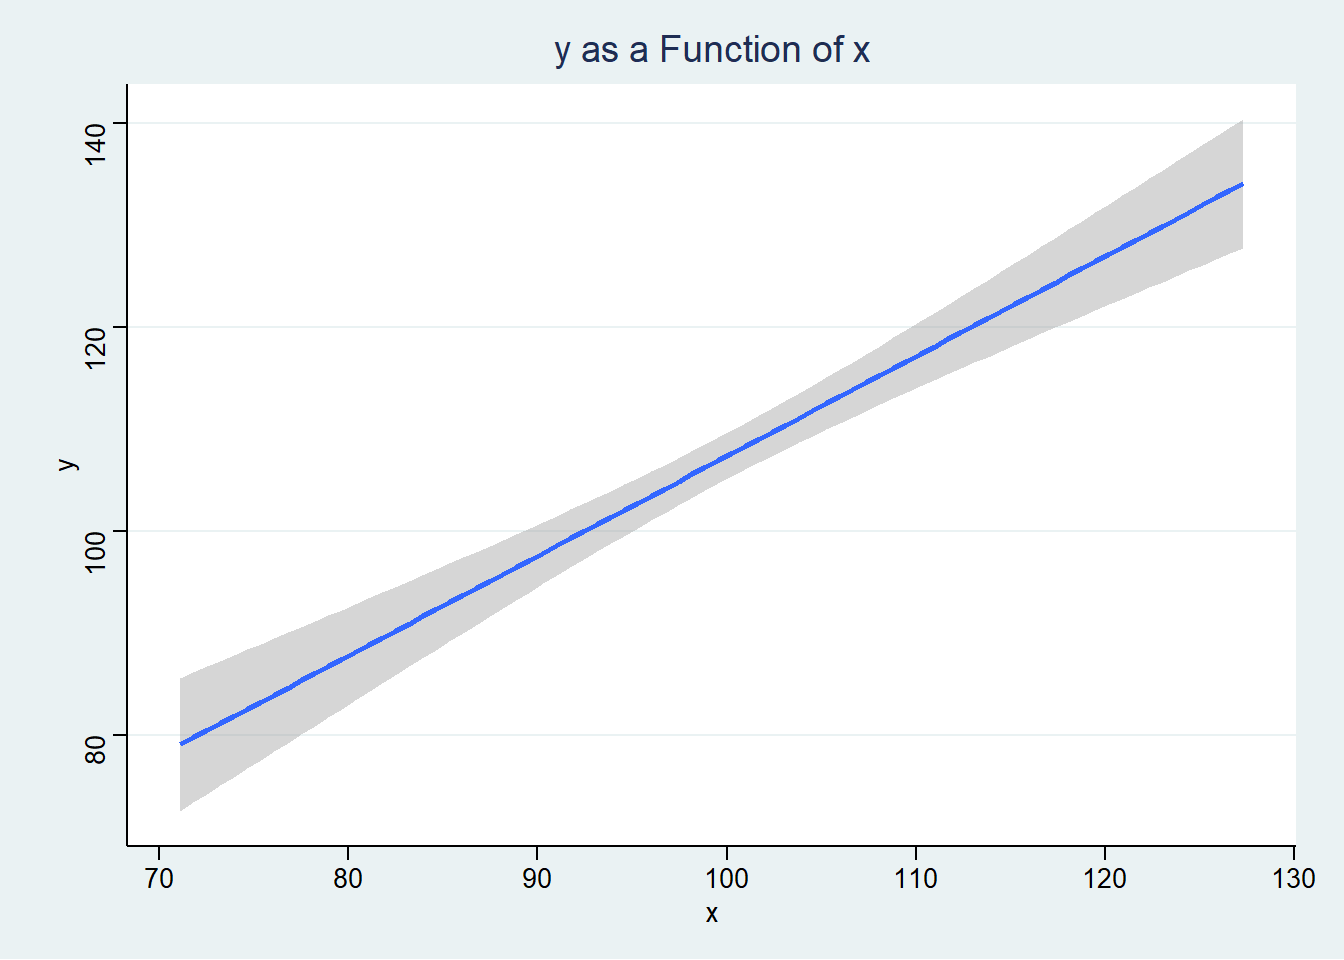
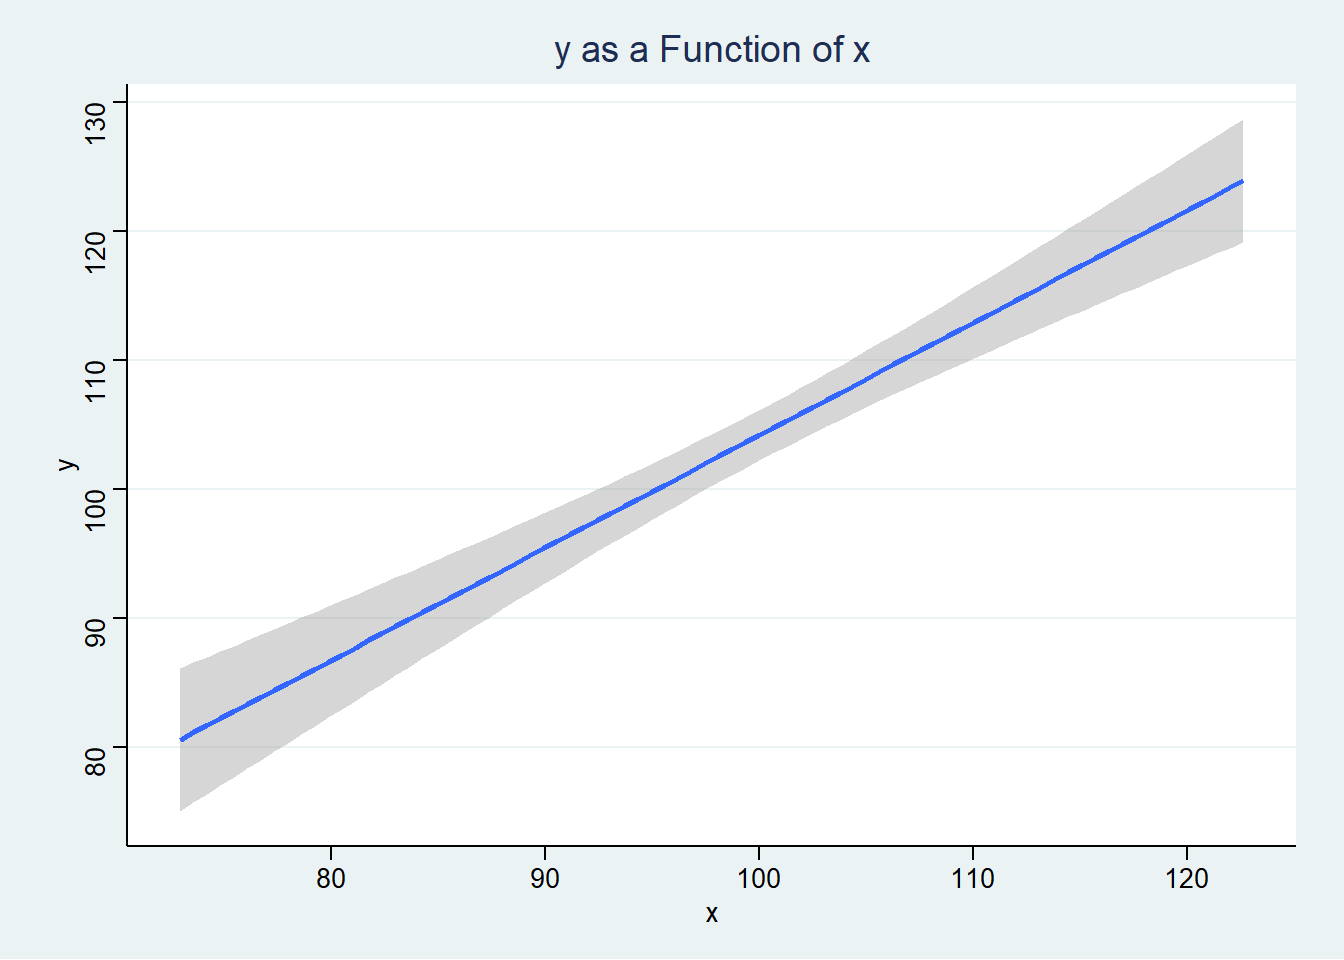
minor content updates

diff --git a/paper-template/cross-sectional-multilevel.html b/paper-template/cross-sectional-multilevel.html
@@ -148,22 +148,22 @@
 <td style="text-align: center;">NA</td>
 <td style="text-align: center;">NA</td>
 <td style="text-align: center;">NA</td>
-<td style="text-align: center;">1: 58, 0: 42</td>
+<td style="text-align: center;">0: 64, 1: 36</td>
 </tr>
 <tr class="even">
 <td style="text-align: center;">x</td>
-<td style="text-align: center;">99.73</td>
-<td style="text-align: center;">10.62</td>
-<td style="text-align: center;">71.12</td>
-<td style="text-align: center;">127.3</td>
+<td style="text-align: center;">99.93</td>
+<td style="text-align: center;">10.26</td>
+<td style="text-align: center;">72.95</td>
+<td style="text-align: center;">122.6</td>
 <td style="text-align: center;">NA</td>
 </tr>
 <tr class="odd">
 <td style="text-align: center;">y</td>
-<td style="text-align: center;">107.1</td>
-<td style="text-align: center;">15.39</td>
-<td style="text-align: center;">68.57</td>
-<td style="text-align: center;">148</td>
+<td style="text-align: center;">104.1</td>
+<td style="text-align: center;">13.28</td>
+<td style="text-align: center;">66.67</td>
+<td style="text-align: center;">136.5</td>
 <td style="text-align: center;">NA</td>
 </tr>
 <tr class="even">
@@ -180,12 +180,22 @@
 </div>
 <div class="cell">
 <div class="cell-output-display">
-<p><img src="cross-sectional-multilevel_files/figure-html/unnamed-chunk-3-1.png" class="img-fluid" width="672"></p>
+<div class="quarto-figure quarto-figure-center">
+<figure class="figure">
+<p><img src="cross-sectional-multilevel_files/figure-html/unnamed-chunk-3-1.png" class="img-fluid figure-img" width="672"></p>
+<p></p><figcaption aria-hidden="true" class="figure-caption">A Sample Univariate Graph</figcaption><p></p>
+</figure>
+</div>
 </div>
 </div>
 <div class="cell">
 <div class="cell-output-display">
-<p><img src="cross-sectional-multilevel_files/figure-html/unnamed-chunk-4-1.png" class="img-fluid" width="672"></p>
+<div class="quarto-figure quarto-figure-center">
+<figure class="figure">
+<p><img src="cross-sectional-multilevel_files/figure-html/unnamed-chunk-4-1.png" class="img-fluid figure-img" width="672"></p>
+<p></p><figcaption aria-hidden="true" class="figure-caption">A Sample Bivariate Graph</figcaption><p></p>
+</figure>
+</div>
 </div>
 </div>
 
@@ -195,7 +205,7 @@
 <p>Note also you can make use of one of Stata’s <code>scheme</code>s to make your graphs visually interesting.</p>
 <p>It’s also worth trying out the <code>lean1</code> and <code>lean2</code> schemes (type <code>findit lean2</code> to install).</p>
 <p>And the daring are welcome to try my “Michigan” graph scheme, available <a href="https://agrogan1.github.io/Stata/michigan-graph-scheme/">here</a>, <em>caveat emptor</em>.</p>
-</div></div><p>What is the influence of each predictor variable in your relationship in terms of <span class="math inline">\(\beta\)</span> and p value? Please compute the unconditional intra-class correlation coefficient as part of your results. The graph right demonstrates one aspect of this relationship.</p>
+</div></div><p>What is the influence of each predictor variable in your relationship in terms of <span class="math inline">\(\beta\)</span> and p value? Please compute the unconditional intra-class correlation coefficient as part of your results. The graph demonstrates one aspect of this relationship.</p>
 <div class="cell">
 <div class="cell-output-display">
 <table style="border-collapse:collapse; border:none;">
@@ -212,24 +222,24 @@
 </tr>
 <tr>
 <td style=" padding:0.2cm; text-align:left; vertical-align:top; text-align:left; ">(Intercept)</td>
-<td style=" padding:0.2cm; text-align:left; vertical-align:top; text-align:center;  ">10.99</td>
-<td style=" padding:0.2cm; text-align:left; vertical-align:top; text-align:center;  ">10.64</td>
-<td style=" padding:0.2cm; text-align:left; vertical-align:top; text-align:center;  ">1.03</td>
-<td style=" padding:0.2cm; text-align:left; vertical-align:top; text-align:center;  ">0.304</td>
+<td style=" padding:0.2cm; text-align:left; vertical-align:top; text-align:center;  ">13.39</td>
+<td style=" padding:0.2cm; text-align:left; vertical-align:top; text-align:center;  ">9.32</td>
+<td style=" padding:0.2cm; text-align:left; vertical-align:top; text-align:center;  ">1.44</td>
+<td style=" padding:0.2cm; text-align:left; vertical-align:top; text-align:center;  ">0.154</td>
 </tr>
 <tr>
 <td style=" padding:0.2cm; text-align:left; vertical-align:top; text-align:left; ">x</td>
-<td style=" padding:0.2cm; text-align:left; vertical-align:top; text-align:center;  ">0.96</td>
-<td style=" padding:0.2cm; text-align:left; vertical-align:top; text-align:center;  ">0.10</td>
-<td style=" padding:0.2cm; text-align:left; vertical-align:top; text-align:center;  ">9.29</td>
+<td style=" padding:0.2cm; text-align:left; vertical-align:top; text-align:center;  ">0.89</td>
+<td style=" padding:0.2cm; text-align:left; vertical-align:top; text-align:center;  ">0.09</td>
+<td style=" padding:0.2cm; text-align:left; vertical-align:top; text-align:center;  ">9.78</td>
 <td style=" padding:0.2cm; text-align:left; vertical-align:top; text-align:center;  "><strong>&lt;0.001</strong></td>
 </tr>
 <tr>
 <td style=" padding:0.2cm; text-align:left; vertical-align:top; text-align:left; ">z [1]</td>
-<td style=" padding:0.2cm; text-align:left; vertical-align:top; text-align:center;  ">1.26</td>
-<td style=" padding:0.2cm; text-align:left; vertical-align:top; text-align:center;  ">2.21</td>
-<td style=" padding:0.2cm; text-align:left; vertical-align:top; text-align:center;  ">0.57</td>
-<td style=" padding:0.2cm; text-align:left; vertical-align:top; text-align:center;  ">0.572</td>
+<td style=" padding:0.2cm; text-align:left; vertical-align:top; text-align:center;  ">4.23</td>
+<td style=" padding:0.2cm; text-align:left; vertical-align:top; text-align:center;  ">1.91</td>
+<td style=" padding:0.2cm; text-align:left; vertical-align:top; text-align:center;  ">2.22</td>
+<td style=" padding:0.2cm; text-align:left; vertical-align:top; text-align:center;  "><strong>0.029</strong></td>
 </tr>
 <tr>
 <td colspan="5" style="font-weight:bold; text-align:left; padding-top:.8em;">Random Effects</td>
@@ -237,16 +247,16 @@
 
 <tr>
 <td style=" padding:0.2cm; text-align:left; vertical-align:top; text-align:left; padding-top:0.1cm; padding-bottom:0.1cm;">σ<sup>2</sup></td>
-<td style=" padding:0.2cm; text-align:left; vertical-align:top; padding-top:0.1cm; padding-bottom:0.1cm; text-align:left;" colspan="4">113.71</td>
+<td style=" padding:0.2cm; text-align:left; vertical-align:top; padding-top:0.1cm; padding-bottom:0.1cm; text-align:left;" colspan="4">80.37</td>
 </tr>
 
 <tr>
 <td style=" padding:0.2cm; text-align:left; vertical-align:top; text-align:left; padding-top:0.1cm; padding-bottom:0.1cm;">τ<sub>00</sub> <sub>u</sub></td>
-<td style=" padding:0.2cm; text-align:left; vertical-align:top; padding-top:0.1cm; padding-bottom:0.1cm; text-align:left;" colspan="4">18.89</td>
+<td style=" padding:0.2cm; text-align:left; vertical-align:top; padding-top:0.1cm; padding-bottom:0.1cm; text-align:left;" colspan="4">14.38</td>
 
 </tr><tr>
 <td style=" padding:0.2cm; text-align:left; vertical-align:top; text-align:left; padding-top:0.1cm; padding-bottom:0.1cm;">ICC</td>
-<td style=" padding:0.2cm; text-align:left; vertical-align:top; padding-top:0.1cm; padding-bottom:0.1cm; text-align:left;" colspan="4">0.14</td>
+<td style=" padding:0.2cm; text-align:left; vertical-align:top; padding-top:0.1cm; padding-bottom:0.1cm; text-align:left;" colspan="4">0.15</td>
 
 </tr><tr>
 <td style=" padding:0.2cm; text-align:left; vertical-align:top; text-align:left; padding-top:0.1cm; padding-bottom:0.1cm;">N <sub>u</sub></td>
@@ -257,7 +267,7 @@
 </tr>
 <tr>
 <td style=" padding:0.2cm; text-align:left; vertical-align:top; text-align:left; padding-top:0.1cm; padding-bottom:0.1cm;">Marginal R<sup>2</sup> / Conditional R<sup>2</sup></td>
-<td style=" padding:0.2cm; text-align:left; vertical-align:top; padding-top:0.1cm; padding-bottom:0.1cm; text-align:left;" colspan="4">0.435 / 0.515</td>
+<td style=" padding:0.2cm; text-align:left; vertical-align:top; padding-top:0.1cm; padding-bottom:0.1cm; text-align:left;" colspan="4">0.473 / 0.553</td>
 </tr>
 
 </tbody></table>
